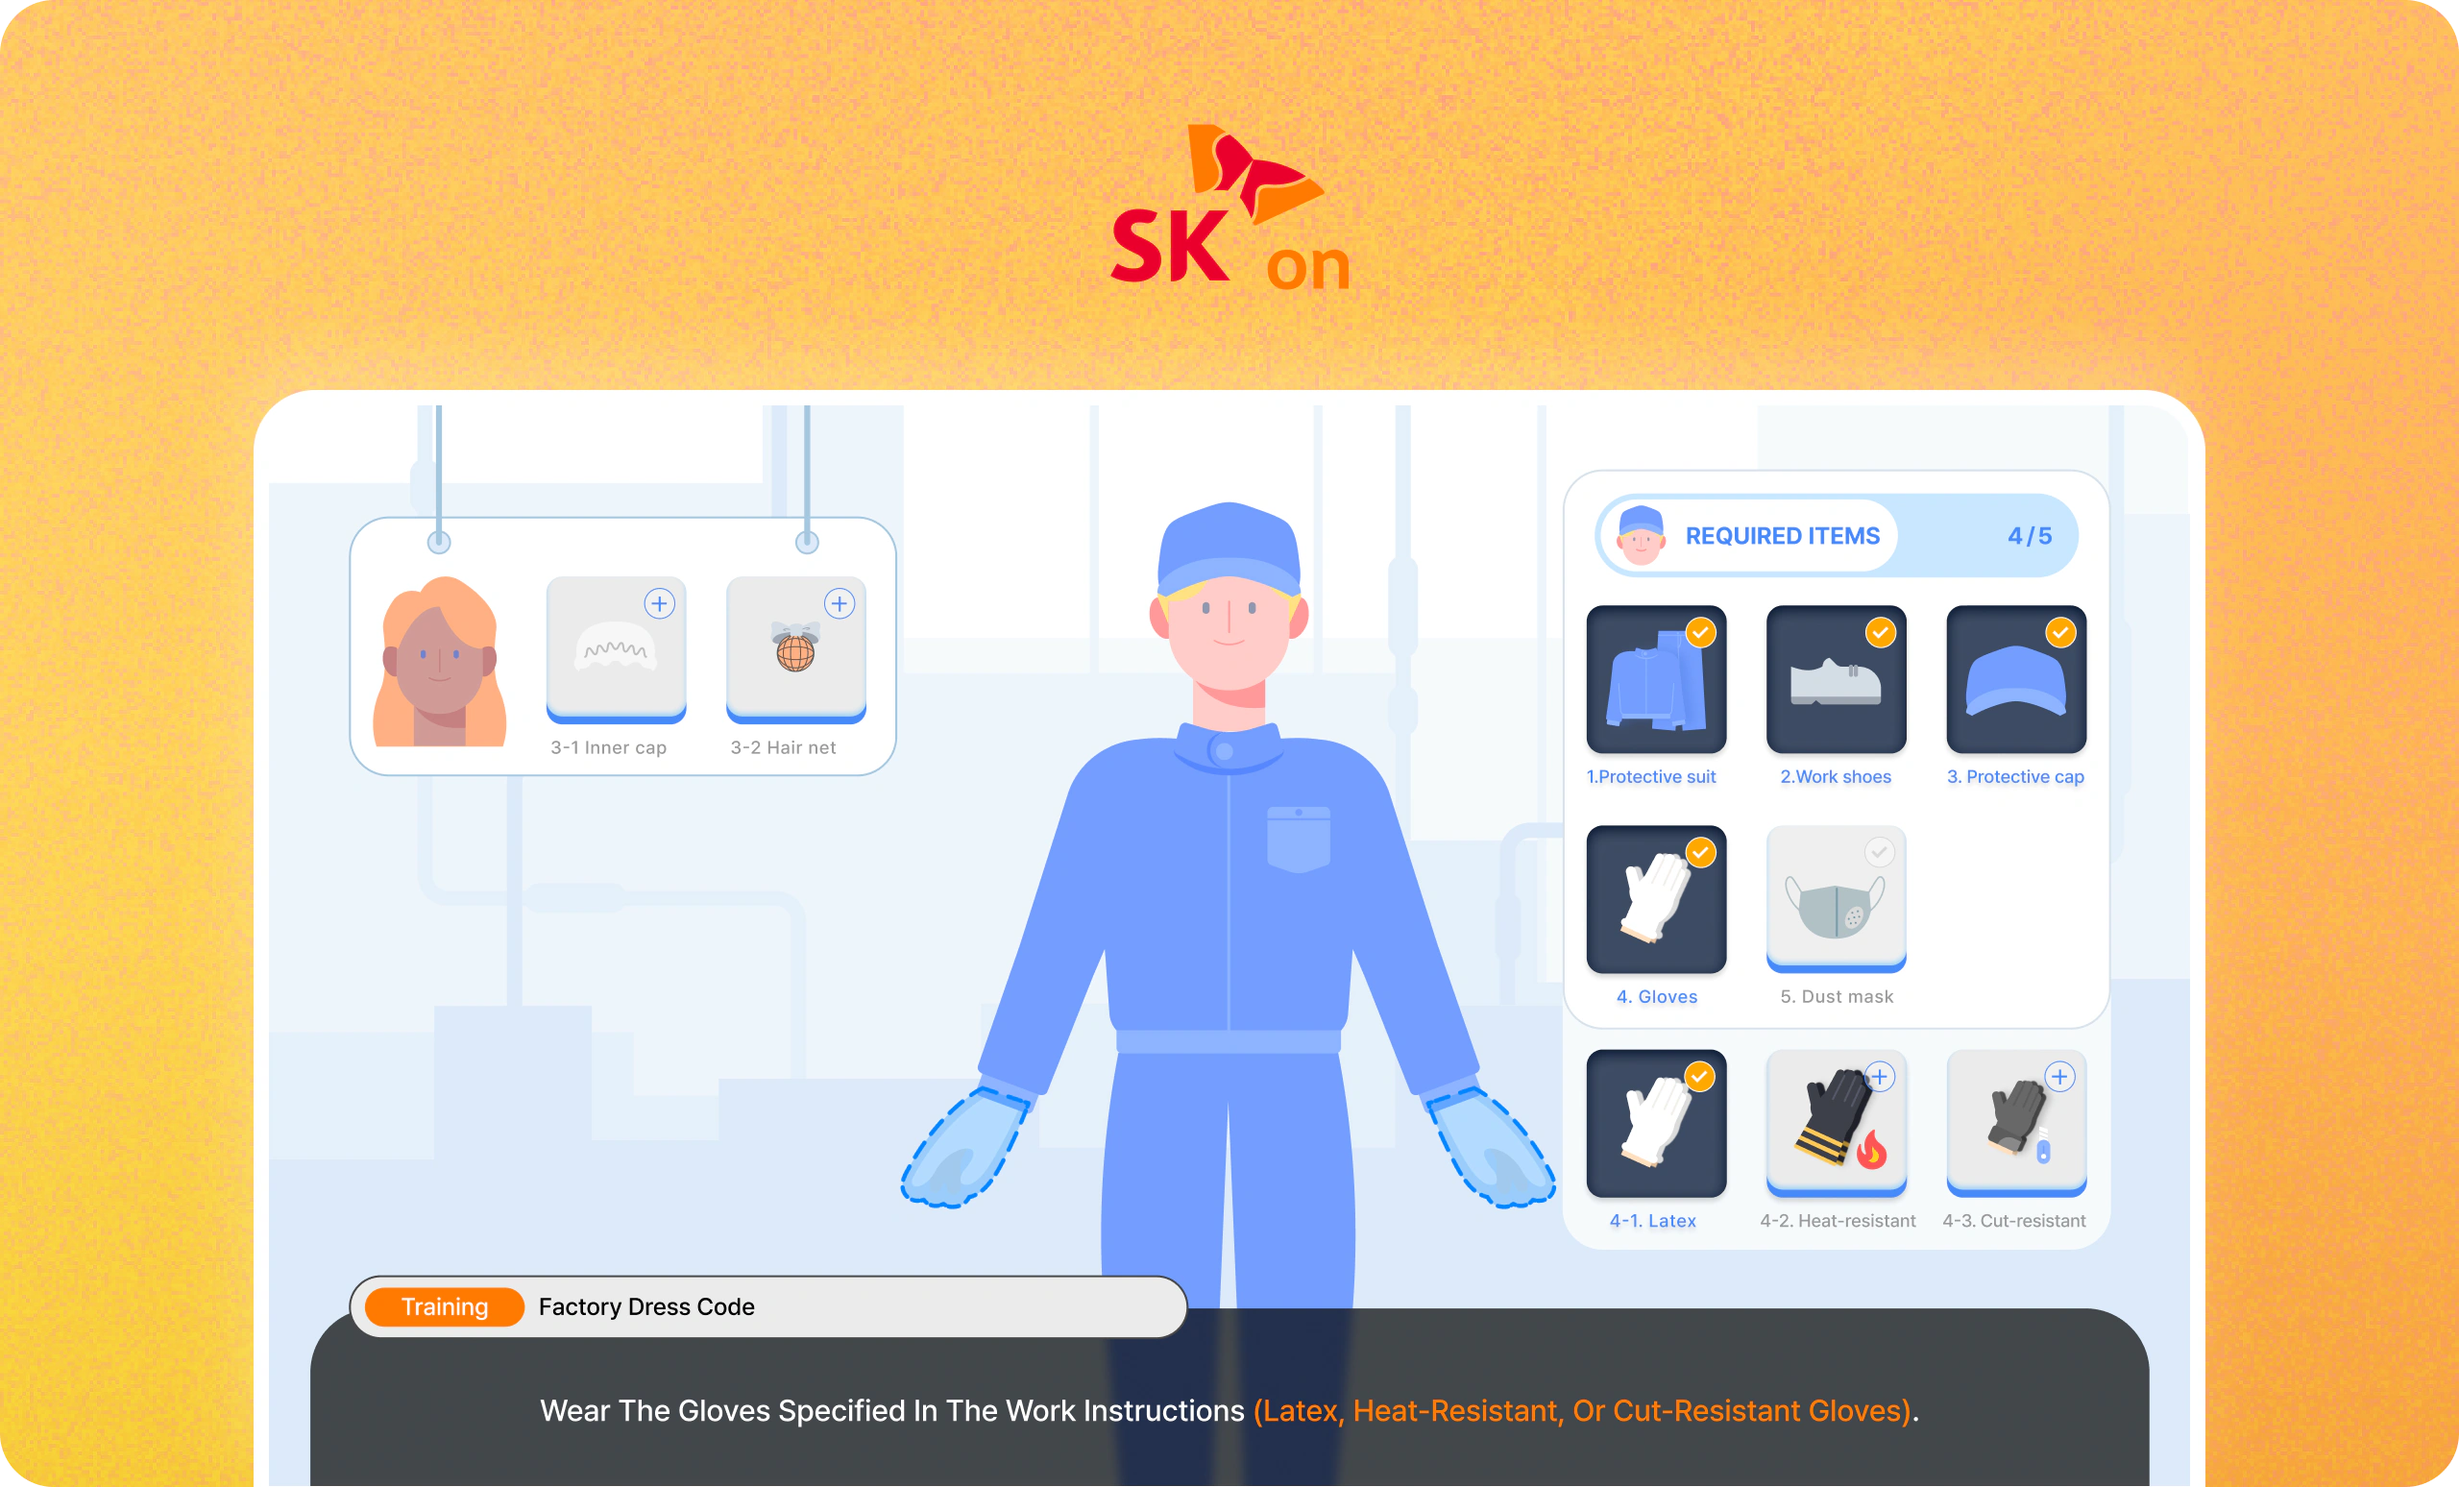
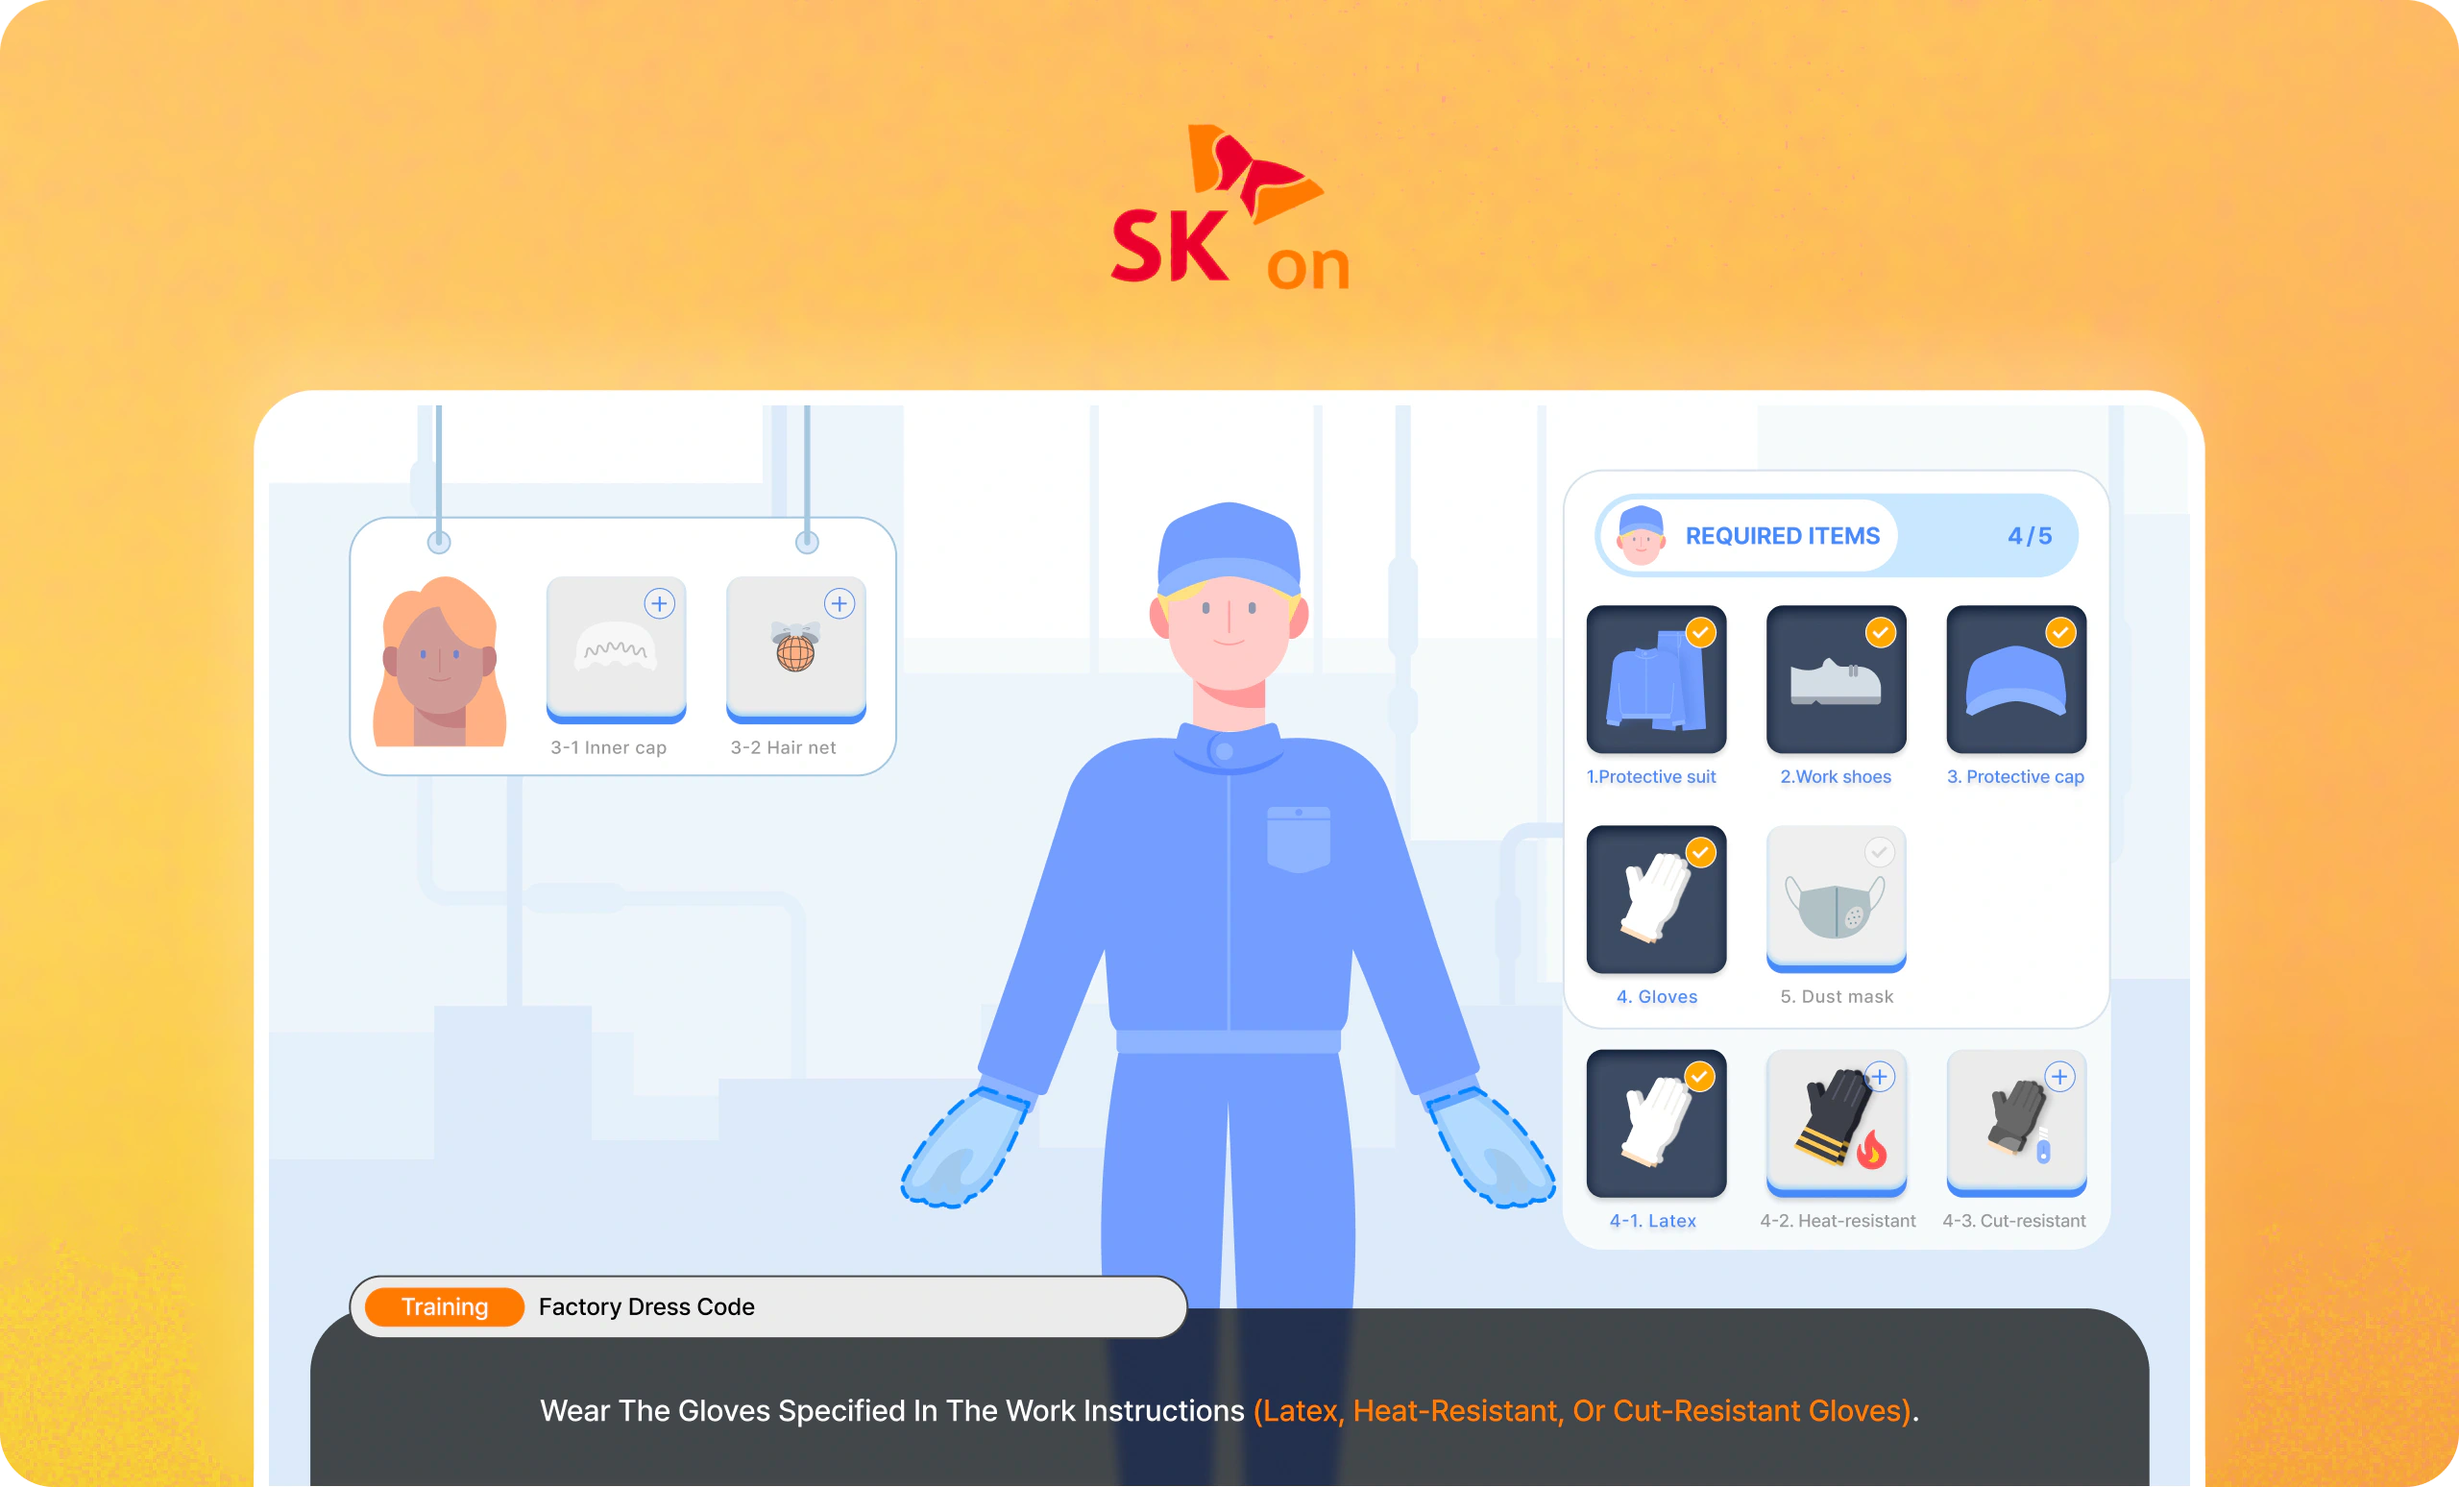
SK On hero cover without background grain (656KB to 206KB); home tab title

diff --git a/index.html b/index.html
@@ -3,7 +3,7 @@
 <head>
   <meta charset="UTF-8" />
   <meta name="viewport" content="width=device-width, initial-scale=1.0" />
-  <title>Lydia — Product Designer</title>
+  <title>Lydia Oh — Designer</title>
   <link rel="preconnect" href="https://fonts.googleapis.com" />
   <link rel="preconnect" href="https://fonts.gstatic.com" crossorigin />
   <link href="https://fonts.googleapis.com/css2?family=Manrope:wght@400;500;600;700;800&family=Instrument+Serif:ital@0;1&display=swap" rel="stylesheet" />
